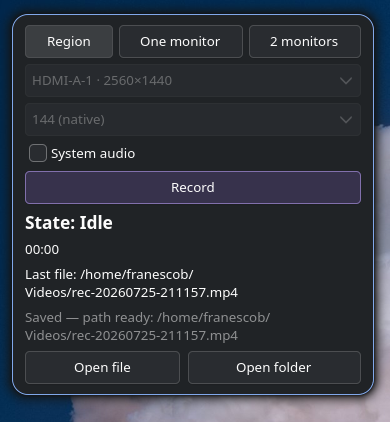
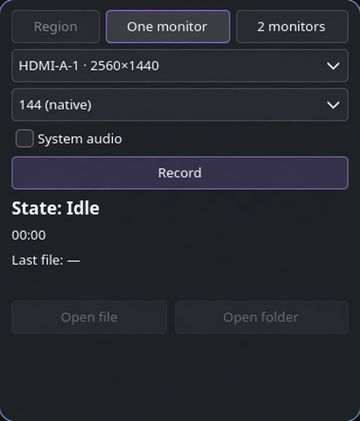
chore: scrub personal/stale packaging from public tree
Drop legacy record-ui-git AUR scaffold, refresh screenshots without
home-dir paths, tighten AUR maintainer docs, and retitle internal SPECs.

diff --git a/packaging/aur/README.md b/packaging/aur/README.md
@@ -1,90 +1,33 @@
-# Empaquetado Arch (AUR)
+# Arch packaging (AUR)
 
-## ¿Pacman oficial o AUR?
-
-| Camino | Qué es | Realismo para un primer OSS |
-|--------|--------|-------------------------------|
-| **`extra` / `extra-testing` (pacman)** | Repo oficial de Arch | Difícil al inicio: hace falta un *Trusted User* o que un maintainer adopte el paquete. **No es el primer paso.** |
-| **AUR** | Community packages, `yay`/`paru` | **Camino correcto** para tu primera app. Un `PKGBUILD`, revisión de la comunidad, la gente instala con un comando. |
-
-Después de que el paquete madure (usuarios, issues, tags de release), podés mirar *Arch Linux Pro Audio* / adoptantes en repos oficiales. Empezá por AUR.
-
-## Qué resuelve el paquete (y el .desktop)
-
-Al instalar desde AUR el PKGBUILD:
-
-1. Compila e instala **`/usr/bin/record-ui`** (en el PATH de todos).
-2. Instala **`/usr/share/applications/record-ui.desktop`**.
-3. Arch corre `update-desktop-database` al instalar → **walker / menús** ven `record-ui` sin que el usuario toque rutas a mano.
-
-No hace falta “copiar el .desktop a mano” ni `cargo install` si usan AUR.
-
-Runtime que el usuario debe tener (o que `depends` instala):
-
-- hard: `wf-recorder`, `slurp`, `ffmpeg`, `gtk4`, `libadwaita`
-- soft (optdepends): `hyprland`/`hyprctl`, `libnotify`, `wl-clipboard`
-
-## Publicar en AUR (checklist de primer maintainer)
-
-1. Cuenta en [aur.archlinux.org](https://aur.archlinux.org) (misma SSH key que usás en GitHub, o una dedicada AUR).
-2. Lee: [AUR submission guidelines](https://wiki.archlinux.org/title/AUR_submission_guidelines) y [Creating packages](https://wiki.archlinux.org/title/Creating_packages).
-3. Local test:
-
-   ```bash
-   cd packaging/aur/record-ui-git
-   makepkg -si          # build + install local
-   record-ui --help
-   record-ui gui
-   ```
-
-4. Generá `.SRCINFO` (obligatorio en el git del AUR):
-
-   ```bash
-   makepkg --printsrcinfo > .SRCINFO
-   ```
-
-5. Subí **solo** el paquete al AUR (repo git aparte, no el repo de la app):
-
-   ```bash
-   git clone ssh://aur@aur.archlinux.org/record-ui-git.git
-   cp PKGBUILD .SRCINFO /path/to/record-ui-git-aur/
-   cd /path/to/record-ui-git-aur
-   git add PKGBUILD .SRCINFO
-   git commit -m "Initial: record-ui-git 0.1.0"
-   git push
-   ```
-
-6. Cuando tengas **tags** `v0.1.0`, `v0.2.0`, … conviene un paquete estable `record-ui` (tarball de release) además del `-git`.
-
-## Releases recomendados en GitHub
+## Users
 
 ```bash
-git tag -a v0.1.0 -m "v0.1.0"
-git push origin v0.1.0
+yay -S hyprcap-git
+# or: paru -S hyprcap-git
 ```
 
-Luego un PKGBUILD no-git puede usar:
+Installs `/usr/bin/hyprcap`, desktop entry, and icons. Hard deps (`wf-recorder`, `slurp`, `ffmpeg`, GTK) come with the package.
 
-```text
-source=("$pkgname-$pkgver.tar.gz::$url/archive/refs/tags/v$pkgver.tar.gz")
-```
+## Maintainer notes
 
-y un `sha256sums` real (no `SKIP`).
+- PKGBUILD: [`hyprcap-git/PKGBUILD`](hyprcap-git/PKGBUILD)
+- AUR guidelines: https://wiki.archlinux.org/title/AUR_submission_guidelines
 
-## Si no querés AUR todavía
-
-Instalación “de una” local (sin AUR):
+Local smoke:
 
 ```bash
-cargo install --path . --locked
-install -Dm644 data/record-ui.desktop \
-  ~/.local/share/applications/record-ui.desktop
-# binary: ~/.cargo/bin/record-ui  → asegurate que ~/.cargo/bin esté en PATH
-```
-
-O con el PKGBUILD de este repo:
-
-```bash
-cd packaging/aur/record-ui-git
+cd packaging/aur/hyprcap-git
 makepkg -si
+hyprcap --help
 ```
+
+Publish (after AUR account + SSH):
+
+```bash
+makepkg --printsrcinfo > .SRCINFO
+git clone ssh://aur@aur.archlinux.org/hyprcap-git.git
+# copy PKGBUILD + .SRCINFO, commit, push
+```
+
+When you tag releases (`v0.1.0`, …), add a stable `hyprcap` package (tarball + real `sha256sums`) alongside `-git`.

diff --git a/docs/DUAL-MONITOR.md b/docs/DUAL-MONITOR.md
@@ -1,4 +1,4 @@
-# record-ui — Multi-monitor capture SPEC
+# Hyprcap — Multi-monitor capture SPEC
 
 **Status:** `shipped` (P0 One pickers + P1 Both dual session / GUI Both; product decisions closed 2026-07-25)  
 **Parent:** `SPEC.md` v1 (daemon-on-demand, exclusive session, cooperative stop)  

diff --git a/SPEC.md b/SPEC.md
@@ -1,4 +1,4 @@
-# record-ui — Spec v1
+# Hyprcap (formerly record-ui) — Spec v1
 
 **Status:** `ready-for-agent` (post adversarial product + architecture review)  
 **Previous:** draft v0  
